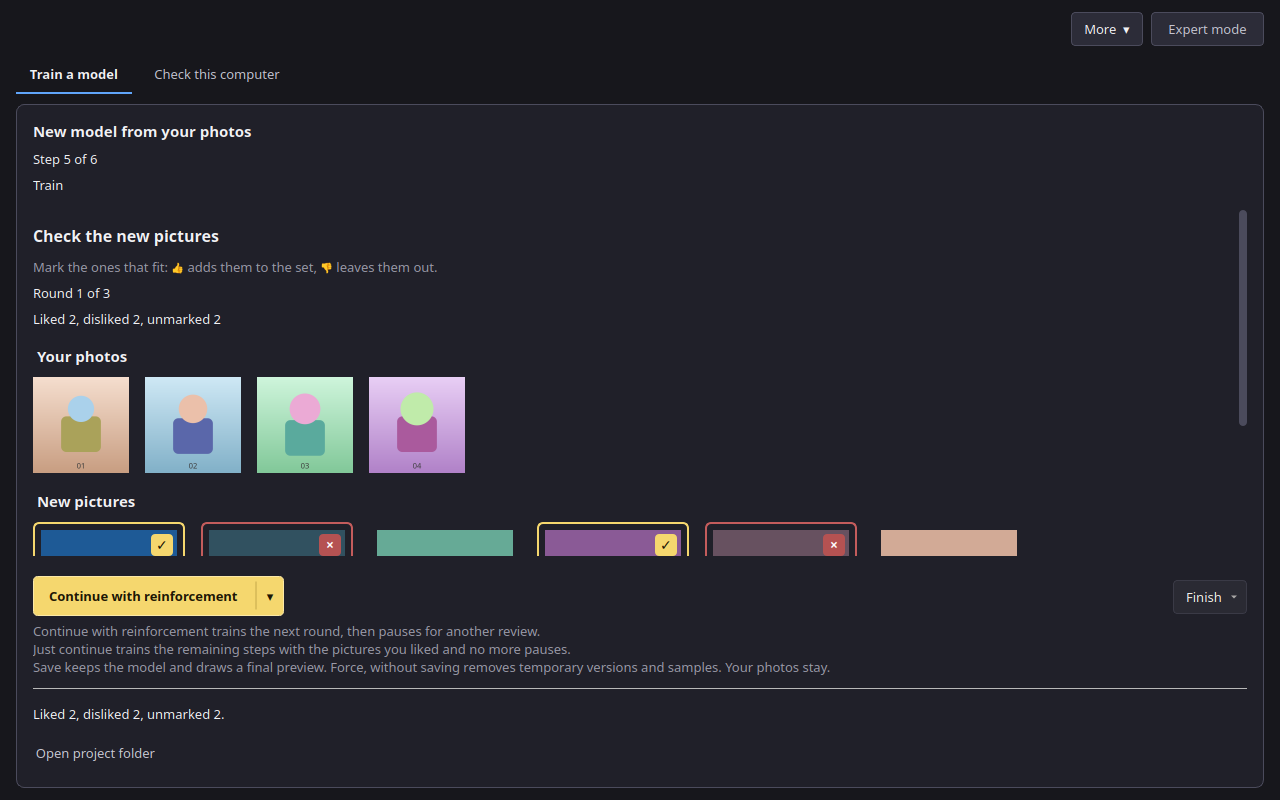
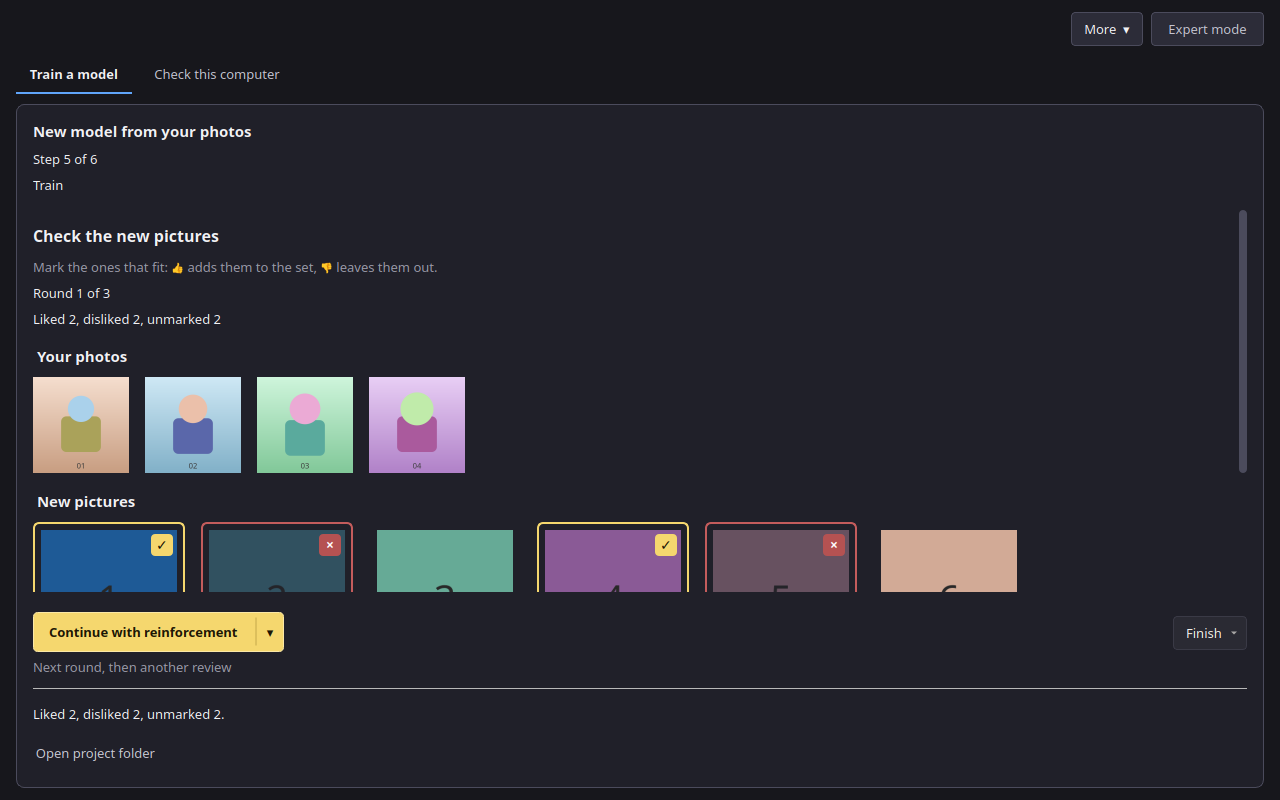
Replace the three-line review note with one mode line.
The muted line names only the current main-button mode and updates when the chevron toggles. The longer explanations are tooltips on the main button, the chevron, Finish, and each menu item.

Changed region(s): [[0.0, 0.6875, 0.8125, 0.8438], [0.9062, 0.7188, 0.9688, 0.8125], [0.9688, 0.5312, 1.0, 0.5938]]

diff --git a/src/voxprint_forge/app/guide/ru.html b/src/voxprint_forge/app/guide/ru.html
@@ -365,7 +365,8 @@
 <p>Если на шаге «Фотографии» включено <strong>Дополнить набор по образцам</strong>, обучение останавливается на проверку. <strong>Число раундов</strong> (от 1 до 6, по умолчанию 3) задаёт, сколько будет таких остановок. Первый этап — это <strong>Шаги первого раунда</strong> (по умолчанию 120, от 100 до 500). Затем приложение рисует 6 картинок в том же размере, что и обучение, по 28 шагов рисования. Следующие раунды рисуют по 8 картинок, тоже по 28 шагов. Оставшиеся шаги предустановки (все шаги минус шаги первого раунда) делятся поровну между оставшимися запланированными раундами, и последний забирает остаток. Общее число шагов предустановки не меняется. Если запланирован один раунд, он длится только как первый; оставшиеся шаги доучивает режим <strong>Просто продолжить</strong>.</p>
 <p>Заголовок — <strong>Проверьте новые картинки</strong>. Ваши фото остаются рядом с новыми. У каждой новой картинки есть <strong>Взять</strong> и <strong>Не брать</strong>. Взятая картинка получает золотую рамку и галочку. Отложенная тускнеет, с красноватой рамкой и крестиком. Картинка без отметки остаётся обычной.</p>
 <p><img alt="Раунд просмотра" src="img/ru-simple-5-review.png" /></p>
-<p><strong>Отметить все 👍</strong> берёт все новые картинки. <strong>Сбросить</strong> снимает отметки. Внизу видно, сколько взято, сколько отложено и сколько без отметки. В одном ряду слева большая кнопка, справа маленькая <strong>Завершить</strong>. По умолчанию большая кнопка — <strong>Продолжить с подкреплением</strong>: она обучает следующий раунд и снова останавливается на проверку. Узкий <strong>▾</strong> на её правом краю переключает надпись на <strong>Просто продолжить</strong> и делает кнопку спокойнее, с короткой сменой надписи. <strong>Просто продолжить</strong> берёт уже выбранные картинки и доучивает оставшиеся шаги без новых проверок. Повторное нажатие <strong>▾</strong> возвращает подкрепление. Выбор сохраняется в настройках проекта. <strong>Завершить</strong> открывает меню. <strong>Сохранить</strong> сначала спрашивает и показывает, сколько шагов пройдено из запланированных, затем сохраняет модель и рисует итоговую пробную картинку. Получается готовая LoRA, которую можно экспортировать. На экране результата, в <code>train.json</code> и в данных экспорта (<code>steps</code> и <code>steps_planned</code>) записано, сколько шагов она прошла, например «Завершено на 450 из 1500 шагов». <strong>Принудительно, без сохранения</strong> сначала спрашивает, затем останавливает обучение и удаляет временные версии и пробные картинки проекта. Ничего не сохраняется. Ваши фото остаются. Если какая-то картинка без отметки, <strong>Продолжить с подкреплением</strong> и <strong>Просто продолжить</strong> спрашивают подтверждение: неотмеченные картинки не войдут в набор. Под кнопками короткая заметка объясняет действия. Закончить можно и раньше последнего раунда. <strong>Назад</strong> и <strong>Далее</strong> скрыты. Если закрыть приложение во время просмотра, тот же экран откроется снова вместе с проектом.</p>
+<p><strong>Отметить все 👍</strong> берёт все новые картинки. <strong>Сбросить</strong> снимает отметки. Внизу видно, сколько взято, сколько отложено и сколько без отметки. В одном ряду слева большая кнопка, справа маленькая <strong>Завершить</strong>. По умолчанию большая кнопка — <strong>Продолжить с подкреплением</strong>: она обучает следующий раунд и снова останавливается на проверку. Узкий <strong>▾</strong> на её правом краю переключает надпись на <strong>Просто продолжить</strong> и делает кнопку спокойнее, с короткой сменой надписи. <strong>Просто продолжить</strong> берёт уже выбранные картинки и доучивает оставшиеся шаги без новых проверок. Повторное нажатие <strong>▾</strong> возвращает подкрепление. Выбор сохраняется в настройках проекта. <strong>Завершить</strong> открывает меню. <strong>Сохранить</strong> сначала спрашивает и показывает, сколько шагов пройдено из запланированных, затем сохраняет модель и рисует итоговую пробную картинку. Получается готовая LoRA, которую можно экспортировать. На экране результата, в <code>train.json</code> и в данных экспорта (<code>steps</code> и <code>steps_planned</code>) записано, сколько шагов она прошла, например «Завершено на 450 из 1500 шагов». <strong>Принудительно, без сохранения</strong> сначала спрашивает, затем останавливает обучение и удаляет временные версии и пробные картинки проекта. Ничего не сохраняется. Ваши фото остаются. Если какая-то картинка без отметки, <strong>Продолжить с подкреплением</strong> и <strong>Просто продолжить</strong> спрашивают подтверждение: неотмеченные картинки не войдут в набор. Под кнопками одна короткая приглушённая строка называет текущий режим большой кнопки и меняется, когда ▾ переключает его. Полные объяснения — во всплывающих подсказках у большой кнопки, ▾, «Завершить» и каждого пункта меню. Закончить можно и раньше последнего раунда. <strong>Назад</strong> и <strong>Далее</strong> скрыты. Если закрыть приложение во время просмотра, тот же экран откроется снова вместе с проектом.</p>
+<p><img alt="Подсказка у большой кнопки" src="img/ru-simple-5-review-tip.png" /></p>
 <p><img alt="Просто продолжить" src="img/ru-simple-5-review-plain.png" /></p>
 <p><img alt="Меню «Завершить»" src="img/ru-simple-5-finish-menu.png" /></p>
 <p><img alt="Подтверждение сохранения" src="img/ru-simple-5-finish-confirm.png" /></p>

diff --git a/src/voxprint_forge/app/guide/en.html b/src/voxprint_forge/app/guide/en.html
@@ -363,7 +363,7 @@
 <p>With <strong>Extend the set from samples</strong> on (Photos step), training pauses for review. <strong>Review rounds</strong> (1 to 6, default 3) is how many pauses are planned. The first stage is <strong>First-round steps</strong> (default 120, from 100 to 500). The app then draws 6 pictures at the training resolution, 28 inference steps each. Later rounds draw 8 pictures, also at 28 steps. The preset steps that remain (the preset total minus the first-round steps) are split evenly across the remaining planned rounds, and the last of those rounds takes the remainder. The preset total does not change. A single planned round is only the first-round length; the steps still left are what <strong>Just continue</strong> runs.</p>
 <p>The heading is <strong>Check the new pictures</strong>. Your photos stay beside the new pictures. Each new picture has <strong>Include</strong> and <strong>Leave out</strong>. A picture you include gets a gold border and a check. A picture you leave out is dimmed, with a red border and a cross. A picture with no mark stays plain.</p>
 <p><img alt="A review round" src="img/en-simple-5-review.png" /></p>
-<p><strong>Mark all 👍</strong> includes every new picture. <strong>Reset</strong> clears the marks. The footer counts pictures you included, pictures you left out, and pictures with no mark. The action row has a large button on the left and a small <strong>Finish</strong> button on the right. <strong>Continue with reinforcement</strong> is the default. It trains the next round, then pauses for another review. The <strong>▾</strong> cut into its right edge switches that same button to <strong>Just continue</strong>, in a calmer colour, with a short crossfade. <strong>Just continue</strong> keeps the pictures you liked and trains the remaining steps with no more pauses. Pressing <strong>▾</strong> again returns to reinforcement. The choice is kept in the project. <strong>Finish</strong> opens a small menu. <strong>Save</strong> asks first and shows the steps done out of the plan, then saves the model and draws a final preview. The result is a finished LoRA you can export, labelled with the steps it got (for example, finished at 450 of 1500 steps) on the result screen, in <code>train.json</code>, and in the export (<code>steps</code> and <code>steps_planned</code>). <strong>Force, without saving</strong> asks first, then stops and removes the project's temporary versions and samples. Nothing is saved. Your photos stay. If any picture has no mark, <strong>Continue with reinforcement</strong> and <strong>Just continue</strong> ask you to confirm: unmarked pictures will not join the set. A short note under the buttons explains the actions. You can finish before the last planned round. Back and Next stay hidden. Closing the app does not drop a paused review: open the project again and the same screen is there.</p>
+<p><strong>Mark all 👍</strong> includes every new picture. <strong>Reset</strong> clears the marks. The footer counts pictures you included, pictures you left out, and pictures with no mark. The action row has a large button on the left and a small <strong>Finish</strong> button on the right. <strong>Continue with reinforcement</strong> is the default. It trains the next round, then pauses for another review. The <strong>▾</strong> cut into its right edge switches that same button to <strong>Just continue</strong>, in a calmer colour, with a short crossfade. <strong>Just continue</strong> keeps the pictures you liked and trains the remaining steps with no more pauses. Pressing <strong>▾</strong> again returns to reinforcement. The choice is kept in the project. <strong>Finish</strong> opens a small menu. <strong>Save</strong> asks first and shows the steps done out of the plan, then saves the model and draws a final preview. The result is a finished LoRA you can export, labelled with the steps it got (for example, finished at 450 of 1500 steps) on the result screen, in <code>train.json</code>, and in the export (<code>steps</code> and <code>steps_planned</code>). <strong>Force, without saving</strong> asks first, then stops and removes the project's temporary versions and samples. Nothing is saved. Your photos stay. If any picture has no mark, <strong>Continue with reinforcement</strong> and <strong>Just continue</strong> ask you to confirm: unmarked pictures will not join the set. One short muted line under the buttons names the current main-button mode and changes when ▾ switches it. The full explanations are tooltips on the main button, ▾, Finish, and each menu item. You can finish before the last planned round. Back and Next stay hidden. Closing the app does not drop a paused review: open the project again and the same screen is there.</p>
 <p>On the command line, <code>lora train --review-rounds N --first-round-steps 120 --first-round-samples 6 --samples-per-round 8 --sample-steps 28</code> pauses the same way. N is from 1 to 6, and the default is 3. <code>lora review</code> lists the pictures and sets marks (<code>--like</code>, <code>--dislike</code>, or <code>--from-file</code>). <code>lora continue PROJECT</code> trains the next round, then pauses for another review. <code>lora continue PROJECT --unattended</code> trains the remaining steps with no more pauses. <code>lora finish PROJECT</code> saves the model, draws a final preview, and records the steps it got. <code>lora finish PROJECT --discard</code> stops and removes temporary versions and samples; without a terminal it also needs <code>--yes</code>. Your photos stay. <code>lora status</code> prints the same first-pictures line during round 1. <code>--review-rounds 0</code> trains straight through.</p>
 <h2 id="expert-settings">Expert settings</h2>
 <p>In Expert mode the panel on the right shows every value: Rank, Alpha, Steps, Learning rate, Scheduler, Warm-up steps, Batch size, Gradient accumulation, Resolution, Precision, Gradient checkpointing, Train the text encoder, Descriptions, Description model, Caption dropout, Seed, Save every N steps and Test picture every N steps. The reset button next to the presets puts back the values of the chosen preset.</p>

diff --git a/tests/test_app_review.py b/tests/test_app_review.py
@@ -262,6 +262,66 @@ def test_the_finish_menu_flips_above_the_button_when_nothing_fits_below(qapp) ->
     window.close()
 
 
+def _assert_review_tooltips(window: QtWidgets.QWidget) -> None:
+    """The main button, ▾, Finish, and every finish-menu item explain themselves."""
+    cont = window.findChild(QtWidgets.QPushButton, "forge.review.continue")
+    chevron = window.findChild(QtWidgets.QPushButton, "forge.review.continue.chevron")
+    finish = window.findChild(QtWidgets.QPushButton, "forge.review.finish")
+    assert cont is not None and chevron is not None and finish is not None
+    assert cont.toolTip().strip()
+    assert chevron.toolTip().strip()
+    assert finish.toolTip().strip()
+    menu = finish.menu()
+    assert menu is not None and menu.toolTipsVisible()
+    actions = [item for item in menu.actions() if not item.isSeparator()]
+    assert actions
+    assert all(item.toolTip().strip() for item in actions)
+
+
+def test_the_review_note_follows_the_button_and_the_tooltips_explain_it(make_app, tmp_path, qapp) -> None:
+    """One muted line names the current mode, and the long explanations live on the controls."""
+    app = make_app("ru")
+    photos = make_photos(tmp_path / "src", 2)
+    _seed_review(app.project, photos)
+    app.layout.sections._index = STEPS.index("train")
+    app.repaint()
+    qapp.processEvents()
+    note = app.window.findChild(QtWidgets.QLabel, "forge.review.note")
+    cont = app.window.findChild(QtWidgets.QPushButton, "forge.review.continue")
+    chevron = app.window.findChild(QtWidgets.QPushButton, "forge.review.continue.chevron")
+    finish = app.window.findChild(QtWidgets.QPushButton, "forge.review.finish")
+    assert note is not None and cont is not None and chevron is not None and finish is not None
+    assert note.property("muted") == "true"
+    assert note.text() == "Следующий раунд и снова проверка"
+    assert "\n" not in note.text()
+    assert cont.toolTip() == tr("forge.app.review.continue.tip")
+    assert chevron.toolTip() == tr("forge.app.review.unattended.tip")
+    assert finish.toolTip() == tr("forge.app.review.finish.tip")
+    _assert_review_tooltips(app.window)
+    QtTest.QTest.mouseClick(chevron, QtCore.Qt.MouseButton.LeftButton)
+    qapp.processEvents()
+    assert note.text() == "Дообучить без проверок"
+    assert cont.toolTip() == tr("forge.app.review.unattended.tip")
+    assert chevron.toolTip() == tr("forge.app.review.continue.tip")
+    _assert_review_tooltips(app.window)
+    app.window.close()
+    english = make_app("en")
+    _seed_review(english.project, photos)
+    english.layout.sections._index = STEPS.index("train")
+    english.repaint()
+    qapp.processEvents()
+    en_note = english.window.findChild(QtWidgets.QLabel, "forge.review.note")
+    en_chevron = english.window.findChild(QtWidgets.QPushButton, "forge.review.continue.chevron")
+    assert en_note is not None and en_chevron is not None
+    assert en_note.text() == "Next round, then another review"
+    assert "\n" not in en_note.text()
+    _assert_review_tooltips(english.window)
+    QtTest.QTest.mouseClick(en_chevron, QtCore.Qt.MouseButton.LeftButton)
+    qapp.processEvents()
+    assert en_note.text() == "Train on without reviews"
+    _assert_review_tooltips(english.window)
+
+
 def _has_danger_text(image: QtGui.QImage, rect: QtCore.QRect) -> bool:
     """True when ``rect`` paints the danger text colour, a light red."""
     inset = rect.adjusted(8, 4, -8, -4)
@@ -345,8 +405,8 @@ def test_the_review_screen_counts_marks_and_offers_continue_and_finish(make_app,
     _assert_review_fits(app, qapp)
     note = app.window.findChild(QtWidgets.QLabel, "forge.review.note")
     assert note is not None and note.property("muted") == "true"
-    assert note.text() == tr("forge.app.review.note")
-    assert note.text().count("\n") == 2
+    assert note.text() == tr("forge.app.review.note.reinforced")
+    assert "\n" not in note.text()
     counts = app.window.findChild(QtWidgets.QLabel, "forge.review.counts")
     assert counts.text() == tr("forge.app.review.counts", liked=1, disliked=1, unmarked=1)
     assert len(app.window.findChildren(QtWidgets.QLabel, "forge.review.original")) == 2

diff --git a/scripts/forge_app_shots.py b/scripts/forge_app_shots.py
@@ -191,6 +191,47 @@ def shot_review_rounds(out: Path, home: Path, photos: list[Path]) -> None:
             state, "pause", checkpoint="checkpoints/step-000001.safetensors", samples=samples,
         ))
 
+    def tooltip_widget() -> QtWidgets.QWidget | None:
+        for widget in QtWidgets.QApplication.topLevelWidgets():
+            if not widget.isVisible():
+                continue
+            if widget.windowType() == QtCore.Qt.WindowType.ToolTip or "Tip" in widget.metaObject().className():
+                return widget
+        return None
+
+    def _save_button_tooltip(
+        window: QtWidgets.QWidget, button: QtWidgets.QWidget | None, path: Path, application: QtWidgets.QApplication,
+    ) -> None:
+        """Composite the real tooltip so it sits on the main button inside the 1280×800 grab."""
+        if button is None or not button.toolTip().strip():
+            raise SystemExit("review main button has no tooltip")
+        anchor = button.mapToGlobal(QtCore.QPoint(button.width() // 2, button.height() // 2))
+        QtWidgets.QToolTip.showText(anchor, button.toolTip(), button)
+        application.processEvents()
+        tip = tooltip_widget()
+        if tip is None:
+            raise SystemExit("tooltip did not appear")
+        origin = window.mapToGlobal(QtCore.QPoint(0, 0))
+        button_at = button.mapToGlobal(QtCore.QPoint(0, 0))
+        x = button_at.x() + 12
+        y = button_at.y() + max(0, (button.height() - tip.height()) // 2)
+        if x + tip.width() > origin.x() + window.width() - 8:
+            x = origin.x() + window.width() - tip.width() - 8
+        if y + tip.height() > origin.y() + window.height() - 8:
+            y = origin.y() + window.height() - tip.height() - 8
+        tip.move(x, y)
+        application.processEvents()
+        image = window.grab()
+        if image.width() != 1280 or image.height() != 800:
+            raise SystemExit(f"tooltip grab is {image.width()}x{image.height()}, want 1280x800")
+        point = window.mapFromGlobal(tip.mapToGlobal(QtCore.QPoint(0, 0)))
+        painter = QtGui.QPainter(image)
+        painter.drawPixmap(point, tip.grab())
+        painter.end()
+        image.save(str(path))
+        QtWidgets.QToolTip.hideText()
+        application.processEvents()
+
     for lang in ("ru", "en"):
         set_language(lang)
         forge = ForgeApp(
@@ -226,6 +267,12 @@ def shot_review_rounds(out: Path, home: Path, photos: list[Path]) -> None:
             if image.width() != 1280 or image.height() != 800:
                 raise SystemExit(f"review grab is {image.width()}x{image.height()}, want 1280x800")
             image.save(str(out / "ru-simple-5-review.png"))
+            _save_button_tooltip(
+                forge.window,
+                forge.window.findChild(QtWidgets.QPushButton, "forge.review.continue"),
+                out / "ru-simple-5-review-tip.png",
+                app,
+            )
             menu = finish.menu()
             popup_menu(finish)
             app.processEvents()
@@ -280,7 +327,10 @@ def shot_review_rounds(out: Path, home: Path, photos: list[Path]) -> None:
             forge.finish_review()
             app.processEvents()
         else:
-            forge.window.grab().save(str(out / f"{lang}-simple-5-review.png"))
+            image = forge.window.grab()
+            if image.width() != 1280 or image.height() != 800:
+                raise SystemExit(f"{lang} review grab is {image.width()}x{image.height()}, want 1280x800")
+            image.save(str(out / f"{lang}-simple-5-review.png"))
         forge.window.close()
     shot_train_live(out, home)
     set_language("en")

diff --git a/src/voxprint_forge/app/window.py b/src/voxprint_forge/app/window.py
@@ -1502,10 +1502,13 @@ class ForgeApp:
         row.addWidget(cont)
         row.addStretch(1)
         row.addWidget(finish)
-        note = QtWidgets.QLabel(tr("forge.app.review.note"))
+        note = QtWidgets.QLabel()
         note.setObjectName("forge.review.note")
         note.setProperty("muted", "true")
-        note.setWordWrap(True)
+        note.setWordWrap(False)
+        self._review_note = note
+        self._show_review_note(cont.mode())
+        cont.toggled.connect(self._show_review_note)
         bar = QtWidgets.QWidget()
         bar.setObjectName("forge.review.actions")
         pinned = QtWidgets.QVBoxLayout(bar)
@@ -1515,6 +1518,14 @@ class ForgeApp:
         pinned.addWidget(note)
         self._review_actions = bar
         self._review_continue = cont
+
+    def _show_review_note(self, mode: str) -> None:
+        """One muted line for the mode the main button would start."""
+        note = getattr(self, "_review_note", None)
+        if not isinstance(note, QtWidgets.QLabel):
+            return
+        key = "forge.app.review.note.plain" if mode == "plain" else "forge.app.review.note.reinforced"
+        note.setText(tr(key))
 
     def _continue_control(self, busy: bool) -> "_ContinueToggle":
         """Large primary button. ▾ swaps reinforcement and plain continue."""
@@ -1581,6 +1592,7 @@ class ForgeApp:
         discard.setObjectName("forge.review.finish.discard")
         discard.setToolTip(tr("forge.app.review.finish.discard.tip"))
         discard.triggered.connect(self.discard_review)
+        menu.setToolTipsVisible(True)
         button.setMenu(menu)
         return button
 

diff --git a/docs/manual/ru/training.md b/docs/manual/ru/training.md
@@ -44,7 +44,9 @@
 
 ![Раунд просмотра](../img/ru-simple-5-review.png)
 
-**Отметить все 👍** берёт все новые картинки. **Сбросить** снимает отметки. Внизу видно, сколько взято, сколько отложено и сколько без отметки. В одном ряду слева большая кнопка, справа маленькая **Завершить**. По умолчанию большая кнопка — **Продолжить с подкреплением**: она обучает следующий раунд и снова останавливается на проверку. Узкий **▾** на её правом краю переключает надпись на **Просто продолжить** и делает кнопку спокойнее, с короткой сменой надписи. **Просто продолжить** берёт уже выбранные картинки и доучивает оставшиеся шаги без новых проверок. Повторное нажатие **▾** возвращает подкрепление. Выбор сохраняется в настройках проекта. **Завершить** открывает меню. **Сохранить** сначала спрашивает и показывает, сколько шагов пройдено из запланированных, затем сохраняет модель и рисует итоговую пробную картинку. Получается готовая LoRA, которую можно экспортировать. На экране результата, в `train.json` и в данных экспорта (`steps` и `steps_planned`) записано, сколько шагов она прошла, например «Завершено на 450 из 1500 шагов». **Принудительно, без сохранения** сначала спрашивает, затем останавливает обучение и удаляет временные версии и пробные картинки проекта. Ничего не сохраняется. Ваши фото остаются. Если какая-то картинка без отметки, **Продолжить с подкреплением** и **Просто продолжить** спрашивают подтверждение: неотмеченные картинки не войдут в набор. Под кнопками короткая заметка объясняет действия. Закончить можно и раньше последнего раунда. **Назад** и **Далее** скрыты. Если закрыть приложение во время просмотра, тот же экран откроется снова вместе с проектом.
+**Отметить все 👍** берёт все новые картинки. **Сбросить** снимает отметки. Внизу видно, сколько взято, сколько отложено и сколько без отметки. В одном ряду слева большая кнопка, справа маленькая **Завершить**. По умолчанию большая кнопка — **Продолжить с подкреплением**: она обучает следующий раунд и снова останавливается на проверку. Узкий **▾** на её правом краю переключает надпись на **Просто продолжить** и делает кнопку спокойнее, с короткой сменой надписи. **Просто продолжить** берёт уже выбранные картинки и доучивает оставшиеся шаги без новых проверок. Повторное нажатие **▾** возвращает подкрепление. Выбор сохраняется в настройках проекта. **Завершить** открывает меню. **Сохранить** сначала спрашивает и показывает, сколько шагов пройдено из запланированных, затем сохраняет модель и рисует итоговую пробную картинку. Получается готовая LoRA, которую можно экспортировать. На экране результата, в `train.json` и в данных экспорта (`steps` и `steps_planned`) записано, сколько шагов она прошла, например «Завершено на 450 из 1500 шагов». **Принудительно, без сохранения** сначала спрашивает, затем останавливает обучение и удаляет временные версии и пробные картинки проекта. Ничего не сохраняется. Ваши фото остаются. Если какая-то картинка без отметки, **Продолжить с подкреплением** и **Просто продолжить** спрашивают подтверждение: неотмеченные картинки не войдут в набор. Под кнопками одна короткая приглушённая строка называет текущий режим большой кнопки и меняется, когда ▾ переключает его. Полные объяснения — во всплывающих подсказках у большой кнопки, ▾, «Завершить» и каждого пункта меню. Закончить можно и раньше последнего раунда. **Назад** и **Далее** скрыты. Если закрыть приложение во время просмотра, тот же экран откроется снова вместе с проектом.
+
+![Подсказка у большой кнопки](../img/ru-simple-5-review-tip.png)
 
 ![Просто продолжить](../img/ru-simple-5-review-plain.png)
 

diff --git a/docs/manual/en/training.md b/docs/manual/en/training.md
@@ -42,7 +42,7 @@ The heading is **Check the new pictures**. Your photos stay beside the new pictu
 
 ![A review round](../img/en-simple-5-review.png)
 
-**Mark all 👍** includes every new picture. **Reset** clears the marks. The footer counts pictures you included, pictures you left out, and pictures with no mark. The action row has a large button on the left and a small **Finish** button on the right. **Continue with reinforcement** is the default. It trains the next round, then pauses for another review. The **▾** cut into its right edge switches that same button to **Just continue**, in a calmer colour, with a short crossfade. **Just continue** keeps the pictures you liked and trains the remaining steps with no more pauses. Pressing **▾** again returns to reinforcement. The choice is kept in the project. **Finish** opens a small menu. **Save** asks first and shows the steps done out of the plan, then saves the model and draws a final preview. The result is a finished LoRA you can export, labelled with the steps it got (for example, finished at 450 of 1500 steps) on the result screen, in `train.json`, and in the export (`steps` and `steps_planned`). **Force, without saving** asks first, then stops and removes the project's temporary versions and samples. Nothing is saved. Your photos stay. If any picture has no mark, **Continue with reinforcement** and **Just continue** ask you to confirm: unmarked pictures will not join the set. A short note under the buttons explains the actions. You can finish before the last planned round. Back and Next stay hidden. Closing the app does not drop a paused review: open the project again and the same screen is there.
+**Mark all 👍** includes every new picture. **Reset** clears the marks. The footer counts pictures you included, pictures you left out, and pictures with no mark. The action row has a large button on the left and a small **Finish** button on the right. **Continue with reinforcement** is the default. It trains the next round, then pauses for another review. The **▾** cut into its right edge switches that same button to **Just continue**, in a calmer colour, with a short crossfade. **Just continue** keeps the pictures you liked and trains the remaining steps with no more pauses. Pressing **▾** again returns to reinforcement. The choice is kept in the project. **Finish** opens a small menu. **Save** asks first and shows the steps done out of the plan, then saves the model and draws a final preview. The result is a finished LoRA you can export, labelled with the steps it got (for example, finished at 450 of 1500 steps) on the result screen, in `train.json`, and in the export (`steps` and `steps_planned`). **Force, without saving** asks first, then stops and removes the project's temporary versions and samples. Nothing is saved. Your photos stay. If any picture has no mark, **Continue with reinforcement** and **Just continue** ask you to confirm: unmarked pictures will not join the set. One short muted line under the buttons names the current main-button mode and changes when ▾ switches it. The full explanations are tooltips on the main button, ▾, Finish, and each menu item. You can finish before the last planned round. Back and Next stay hidden. Closing the app does not drop a paused review: open the project again and the same screen is there.
 
 On the command line, `lora train --review-rounds N --first-round-steps 120 --first-round-samples 6 --samples-per-round 8 --sample-steps 28` pauses the same way. N is from 1 to 6, and the default is 3. `lora review` lists the pictures and sets marks (`--like`, `--dislike`, or `--from-file`). `lora continue PROJECT` trains the next round, then pauses for another review. `lora continue PROJECT --unattended` trains the remaining steps with no more pauses. `lora finish PROJECT` saves the model, draws a final preview, and records the steps it got. `lora finish PROJECT --discard` stops and removes temporary versions and samples; without a terminal it also needs `--yes`. Your photos stay. `lora status` prints the same first-pictures line during round 1. `--review-rounds 0` trains straight through.
 
